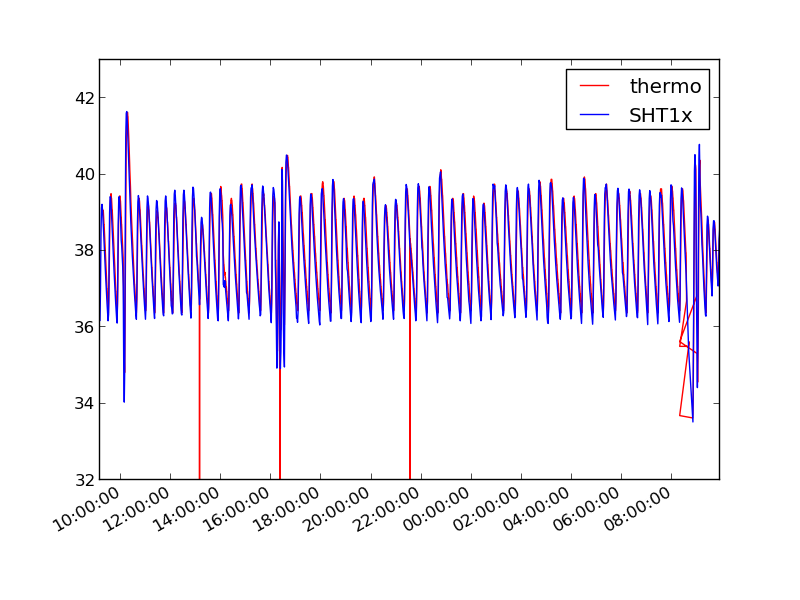
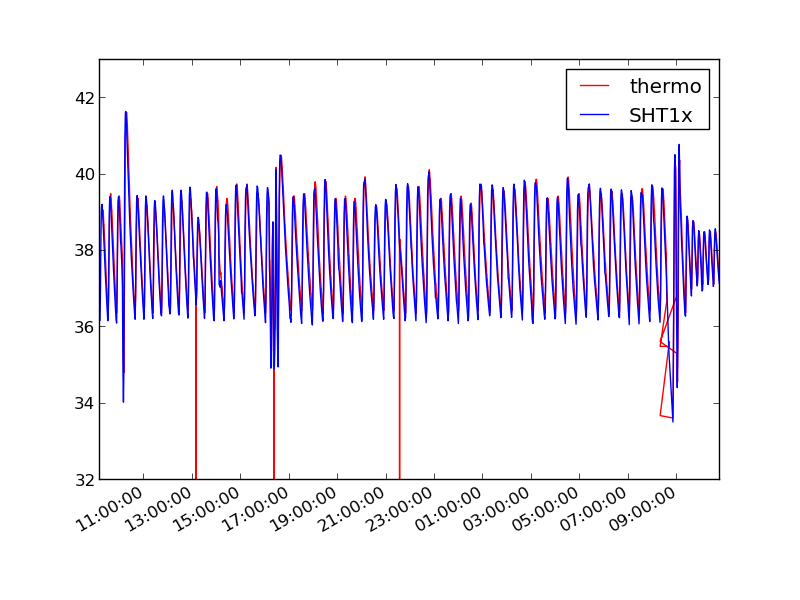
Minor changes in Software. Great changes in Electronics

Changed region(s): [[0.0625, 0.18, 0.9062, 0.9], [0.8125, 0.81, 0.8438, 0.84]]

diff --git a/Raspberry_files/charts.py b/Raspberry_files/charts.py
@@ -12,12 +12,14 @@ datetime_format = '%Y-%m-%d %H:%M:%S'
 
 temp_param_MAX = 37.35
 temp_param_MIN = 37.2
-temp_MIN = 37.2
-temp_MAX = 37.8
+temp_MIN = 37.0
+temp_MAX = 38.0
 humi_param_MAX = 60.5
 humi_param_MIN = 55.5
 humi_MIN = 60.0
 humi_MAX = 75.0
+
+gray_color = '#778899'
 
 server = "192.168.0.110"
 host_username = "pi"
@@ -116,8 +118,8 @@ def generate_thermo_plot_and_save(thermo_dates, thermo_temps, thermo_status, tem
 	plt.subplot(2, 1, 2)
 	plot_date(thermo_dates, thermo_temps, 'k-')
 	plt.ylim(temp_limit_INF, temp_limit_SUP)
-	plt.axhspan(temp_MIN, temp_MAX, facecolor='r', alpha=0.3)
-	plt.axhspan(temp_param_MIN, temp_param_MAX, facecolor='r', alpha=0.8)
+	plt.axhspan(temp_MIN, temp_MAX, facecolor='r', alpha=0.8)
+	plt.axhspan(temp_param_MIN, temp_param_MAX, facecolor='r', alpha=0.5)
 	plt.gcf().autofmt_xdate()
 	plt.xlabel('time')
 	plt.ylabel('Temperature')
@@ -130,15 +132,15 @@ def generate_SHT1x_plot_and_save(SHT1x_dates, SHT1x_temps, SHT1x_humis, humi_par
 	# First subplot
 	plt.subplot(2, 1, 1)
 	plt.plot(SHT1x_dates, SHT1x_humis)
-	plt.axhspan(humi_MIN, humi_MAX, facecolor='r', alpha=0.3)
-	plt.axhspan(humi_param_MIN, humi_param_MAX, facecolor='r', alpha=0.8)
+	plt.axhspan(humi_MIN, humi_MAX, facecolor='r', alpha=0.8)
+	plt.axhspan(humi_param_MIN, humi_param_MAX, facecolor='r', alpha=0.5)
 	plt.ylabel('Humidity')
 	# Second subplot
 	plt.subplot(2, 1, 2)
 	plot_date(SHT1x_dates, SHT1x_temps, 'k-')
 	plt.ylim(temp_limit_INF, temp_limit_SUP)
-	plt.axhspan(temp_MIN, temp_MAX, facecolor='r', alpha=0.3)
-	plt.axhspan(temp_param_MIN, temp_param_MAX, facecolor='r', alpha=0.8)
+	plt.axhspan(temp_MIN, temp_MAX, facecolor='r', alpha=0.8)
+	plt.axhspan(temp_param_MIN, temp_param_MAX, facecolor='r', alpha=0.5)
 	plt.gcf().autofmt_xdate()
 	plt.xlabel('time')
 	plt.ylabel('Temperature')	
